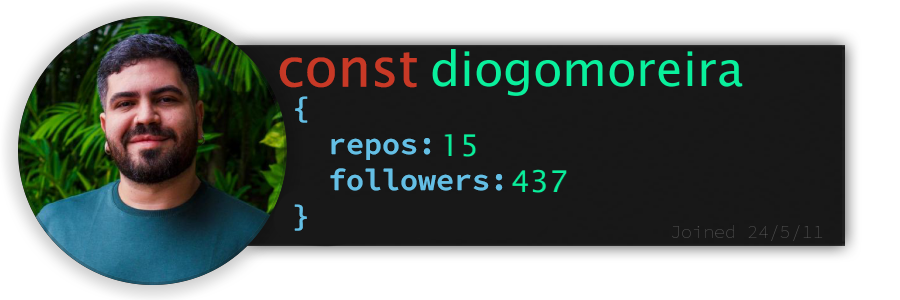
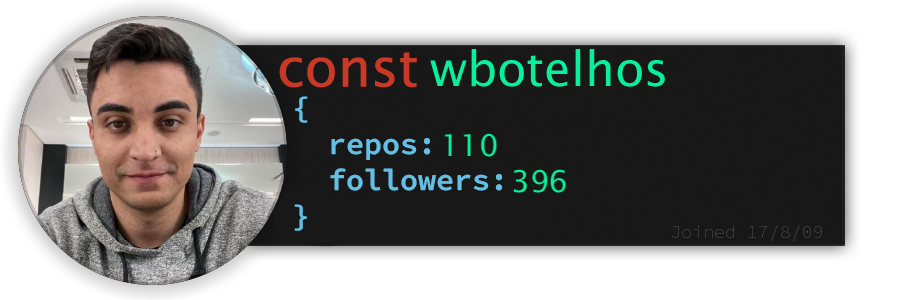
Generated readme

diff --git a/README.md b/README.md
@@ -10,50 +10,50 @@
 * Nícolas Gabriel, 19 years
 * Full Stack programmer
 * Currently studying Python
-* 4 Years, 10 Months and 16 Days since I started programming
+* 4 Years, 10 Months and 17 Days since I started programming
 
 ## **Skills wall:**
 
-<p align="left"><img src="https://img.shields.io/badge/github%20pages-4D4577?logo=github&style=for-the-badge&logoColor=F2F2F2"/>
-<img src="https://img.shields.io/badge/jquery-4D4577?logo=jquery&style=for-the-badge&logoColor=F2F2F2"/>
-<img src="https://img.shields.io/badge/python-4D4577?logo=python&style=for-the-badge&logoColor=F2F2F2"/>
-<img src="https://img.shields.io/badge/photoshop-393359?logo=adobe-photoshop&style=for-the-badge&logoColor=F2F2F2"/>
-<img src="https://img.shields.io/badge/typescript-F73C7B?logo=typescript&style=for-the-badge&logoColor=F2F2F2"/>
-<img src="https://img.shields.io/badge/fastapi-F73C7B?logo=fastapi&style=for-the-badge&logoColor=F2F2F2"/>
-<img src="https://img.shields.io/badge/strapi-393359?logo=strapi&style=for-the-badge&logoColor=F2F2F2"/>
+<p align="left"><img src="https://img.shields.io/badge/javascript-F73C7B?logo=javascript&style=for-the-badge&logoColor=F2F2F2"/>
 <img src="https://img.shields.io/badge/css3-F73C7B?logo=css3&style=for-the-badge&logoColor=F2F2F2"/>
-<img src="https://img.shields.io/badge/react%20native-393359?logo=react&style=for-the-badge&logoColor=F2F2F2"/>
-<img src="https://img.shields.io/badge/storybook-4D4577?logo=storybook&style=for-the-badge&logoColor=F2F2F2"/>
-<img src="https://img.shields.io/badge/shell%20script-393359?logo=gnu-bash&style=for-the-badge&logoColor=F2F2F2"/>
-<img src="https://img.shields.io/badge/netlify-393359?logo=netlify&style=for-the-badge&logoColor=F2F2F2"/>
-<img src="https://img.shields.io/badge/bootstrap-4D4577?logo=bootstrap&style=for-the-badge&logoColor=F2F2F2"/>
-<img src="https://img.shields.io/badge/firebase-393359?logo=firebase&style=for-the-badge&logoColor=F2F2F2"/>
-<img src="https://img.shields.io/badge/flask-4D4577?logo=flask&style=for-the-badge&logoColor=F2F2F2"/>
-<img src="https://img.shields.io/badge/npm-4D4577?logo=npm&style=for-the-badge&logoColor=F2F2F2"/>
-<img src="https://img.shields.io/badge/express.js-393359?logo=express&style=for-the-badge&logoColor=F2F2F2"/>
-<img src="https://img.shields.io/badge/mongodb-4D4577?logo=mongodb&style=for-the-badge&logoColor=F2F2F2"/>
-<img src="https://img.shields.io/badge/sqlite-4D4577?logo=sqlite&style=for-the-badge&logoColor=F2F2F2"/>
-<img src="https://img.shields.io/badge/tailwindcss-F73C7B?logo=tailwindcss&style=for-the-badge&logoColor=F2F2F2"/>
-<img src="https://img.shields.io/badge/visual%20studio%20code-393359?logo=visual%20studio%20code&style=for-the-badge&logoColor=F2F2F2"/>
-<img src="https://img.shields.io/badge/docker-F73C7B?logo=docker&style=for-the-badge&logoColor=F2F2F2"/>
-<img src="https://img.shields.io/badge/vercel-393359?logo=vercel&style=for-the-badge&logoColor=F2F2F2"/>
-<img src="https://img.shields.io/badge/markdown-4D4577?logo=markdown&style=for-the-badge&logoColor=F2F2F2"/>
-<img src="https://img.shields.io/badge/jira-393359?logo=jira&style=for-the-badge&logoColor=F2F2F2"/>
-<img src="https://img.shields.io/badge/html5-4D4577?logo=html5&style=for-the-badge&logoColor=F2F2F2"/>
 <img src="https://img.shields.io/badge/github-393359?logo=github&style=for-the-badge&logoColor=F2F2F2"/>
-<img src="https://img.shields.io/badge/chakra-4D4577?logo=chakraui&style=for-the-badge&logoColor=F2F2F2"/>
+<img src="https://img.shields.io/badge/jquery-4D4577?logo=jquery&style=for-the-badge&logoColor=F2F2F2"/>
+<img src="https://img.shields.io/badge/react%20native-4D4577?logo=react&style=for-the-badge&logoColor=F2F2F2"/>
+<img src="https://img.shields.io/badge/tailwindcss-F73C7B?logo=tailwindcss&style=for-the-badge&logoColor=F2F2F2"/>
 <img src="https://img.shields.io/badge/styled%20components-393359?logo=styled%20components&style=for-the-badge&logoColor=F2F2F2"/>
-<img src="https://img.shields.io/badge/sass-393359?logo=sass&style=for-the-badge&logoColor=F2F2F2"/>
-<img src="https://img.shields.io/badge/jest-393359?logo=jest&style=for-the-badge&logoColor=F2F2F2"/>
-<img src="https://img.shields.io/badge/javascript-F73C7B?logo=javascript&style=for-the-badge&logoColor=F2F2F2"/>
-<img src="https://img.shields.io/badge/ant--design-F73C7B?logo=ant-design&style=for-the-badge&logoColor=F2F2F2"/>
-<img src="https://img.shields.io/badge/github%20actions-F73C7B?logo=github%20actions&style=for-the-badge&logoColor=F2F2F2"/>
-<img src="https://img.shields.io/badge/figma-393359?logo=figma&style=for-the-badge&logoColor=F2F2F2"/>
 <img src="https://img.shields.io/badge/react-F73C7B?logo=react&style=for-the-badge&logoColor=F2F2F2"/>
-<img src="https://img.shields.io/badge/graphql-4D4577?logo=graphql&style=for-the-badge&logoColor=F2F2F2"/>
+<img src="https://img.shields.io/badge/storybook-4D4577?logo=storybook&style=for-the-badge&logoColor=F2F2F2"/>
+<img src="https://img.shields.io/badge/fastapi-F73C7B?logo=fastapi&style=for-the-badge&logoColor=F2F2F2"/>
+<img src="https://img.shields.io/badge/ant--design-F73C7B?logo=ant-design&style=for-the-badge&logoColor=F2F2F2"/>
+<img src="https://img.shields.io/badge/html5-393359?logo=html5&style=for-the-badge&logoColor=F2F2F2"/>
+<img src="https://img.shields.io/badge/docker-F73C7B?logo=docker&style=for-the-badge&logoColor=F2F2F2"/>
+<img src="https://img.shields.io/badge/bootstrap-393359?logo=bootstrap&style=for-the-badge&logoColor=F2F2F2"/>
 <img src="https://img.shields.io/badge/node.js-F73C7B?logo=node.js&style=for-the-badge&logoColor=F2F2F2"/>
+<img src="https://img.shields.io/badge/npm-393359?logo=npm&style=for-the-badge&logoColor=F2F2F2"/>
+<img src="https://img.shields.io/badge/heroku-4D4577?logo=heroku&style=for-the-badge&logoColor=F2F2F2"/>
+<img src="https://img.shields.io/badge/firebase-4D4577?logo=firebase&style=for-the-badge&logoColor=F2F2F2"/>
+<img src="https://img.shields.io/badge/typescript-F73C7B?logo=typescript&style=for-the-badge&logoColor=F2F2F2"/>
+<img src="https://img.shields.io/badge/strapi-4D4577?logo=strapi&style=for-the-badge&logoColor=F2F2F2"/>
+<img src="https://img.shields.io/badge/markdown-393359?logo=markdown&style=for-the-badge&logoColor=F2F2F2"/>
+<img src="https://img.shields.io/badge/github%20actions-F73C7B?logo=github%20actions&style=for-the-badge&logoColor=F2F2F2"/>
+<img src="https://img.shields.io/badge/github%20pages-4D4577?logo=github&style=for-the-badge&logoColor=F2F2F2"/>
+<img src="https://img.shields.io/badge/python-4D4577?logo=python&style=for-the-badge&logoColor=F2F2F2"/>
+<img src="https://img.shields.io/badge/jira-4D4577?logo=jira&style=for-the-badge&logoColor=F2F2F2"/>
 <img src="https://img.shields.io/badge/git-F73C7B?logo=git&style=for-the-badge&logoColor=F2F2F2"/>
-<img src="https://img.shields.io/badge/heroku-393359?logo=heroku&style=for-the-badge&logoColor=F2F2F2"/></p>
+<img src="https://img.shields.io/badge/jest-393359?logo=jest&style=for-the-badge&logoColor=F2F2F2"/>
+<img src="https://img.shields.io/badge/flask-4D4577?logo=flask&style=for-the-badge&logoColor=F2F2F2"/>
+<img src="https://img.shields.io/badge/chakra-4D4577?logo=chakraui&style=for-the-badge&logoColor=F2F2F2"/>
+<img src="https://img.shields.io/badge/vercel-393359?logo=vercel&style=for-the-badge&logoColor=F2F2F2"/>
+<img src="https://img.shields.io/badge/visual%20studio%20code-393359?logo=visual%20studio%20code&style=for-the-badge&logoColor=F2F2F2"/>
+<img src="https://img.shields.io/badge/shell%20script-4D4577?logo=gnu-bash&style=for-the-badge&logoColor=F2F2F2"/>
+<img src="https://img.shields.io/badge/netlify-393359?logo=netlify&style=for-the-badge&logoColor=F2F2F2"/>
+<img src="https://img.shields.io/badge/sqlite-393359?logo=sqlite&style=for-the-badge&logoColor=F2F2F2"/>
+<img src="https://img.shields.io/badge/graphql-393359?logo=graphql&style=for-the-badge&logoColor=F2F2F2"/>
+<img src="https://img.shields.io/badge/sass-4D4577?logo=sass&style=for-the-badge&logoColor=F2F2F2"/>
+<img src="https://img.shields.io/badge/mongodb-393359?logo=mongodb&style=for-the-badge&logoColor=F2F2F2"/>
+<img src="https://img.shields.io/badge/express.js-393359?logo=express&style=for-the-badge&logoColor=F2F2F2"/>
+<img src="https://img.shields.io/badge/photoshop-393359?logo=adobe-photoshop&style=for-the-badge&logoColor=F2F2F2"/>
+<img src="https://img.shields.io/badge/figma-393359?logo=figma&style=for-the-badge&logoColor=F2F2F2"/></p>
 
 ## **Recent projects:**
 
@@ -79,7 +79,7 @@
 
 *Showcases a random GitHub follower here everyday*
 
-<a href="https://github.com/diogomoreira" alt="Diogo Moreira"><img style="height:150px;" src=./src/resources/images/randomFollower.png alt="Follower of the day"/></a>
+<a href="https://github.com/wbotelhos" alt="Washington Botelho"><img style="height:150px;" src=./src/resources/images/randomFollower.png alt="Follower of the day"/></a>
 
 <hr>
 
